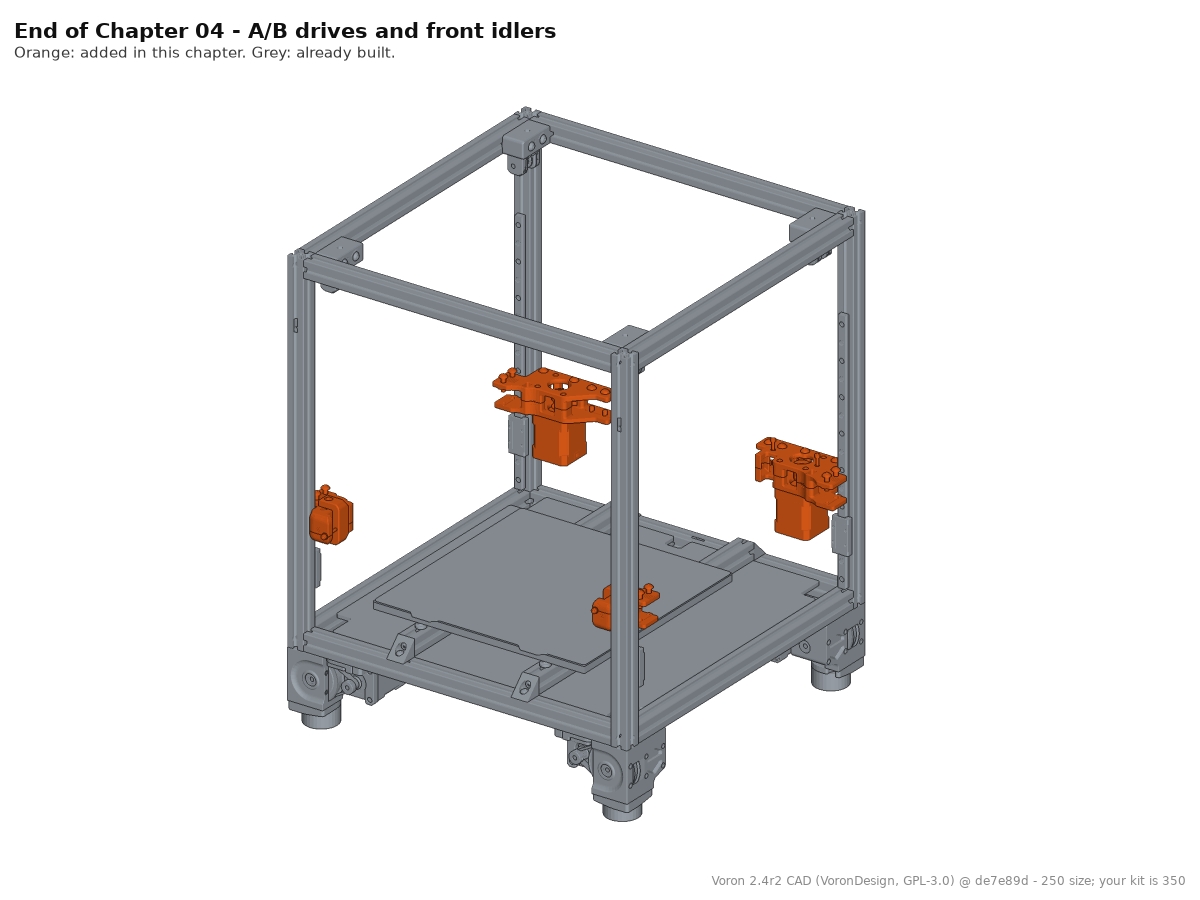
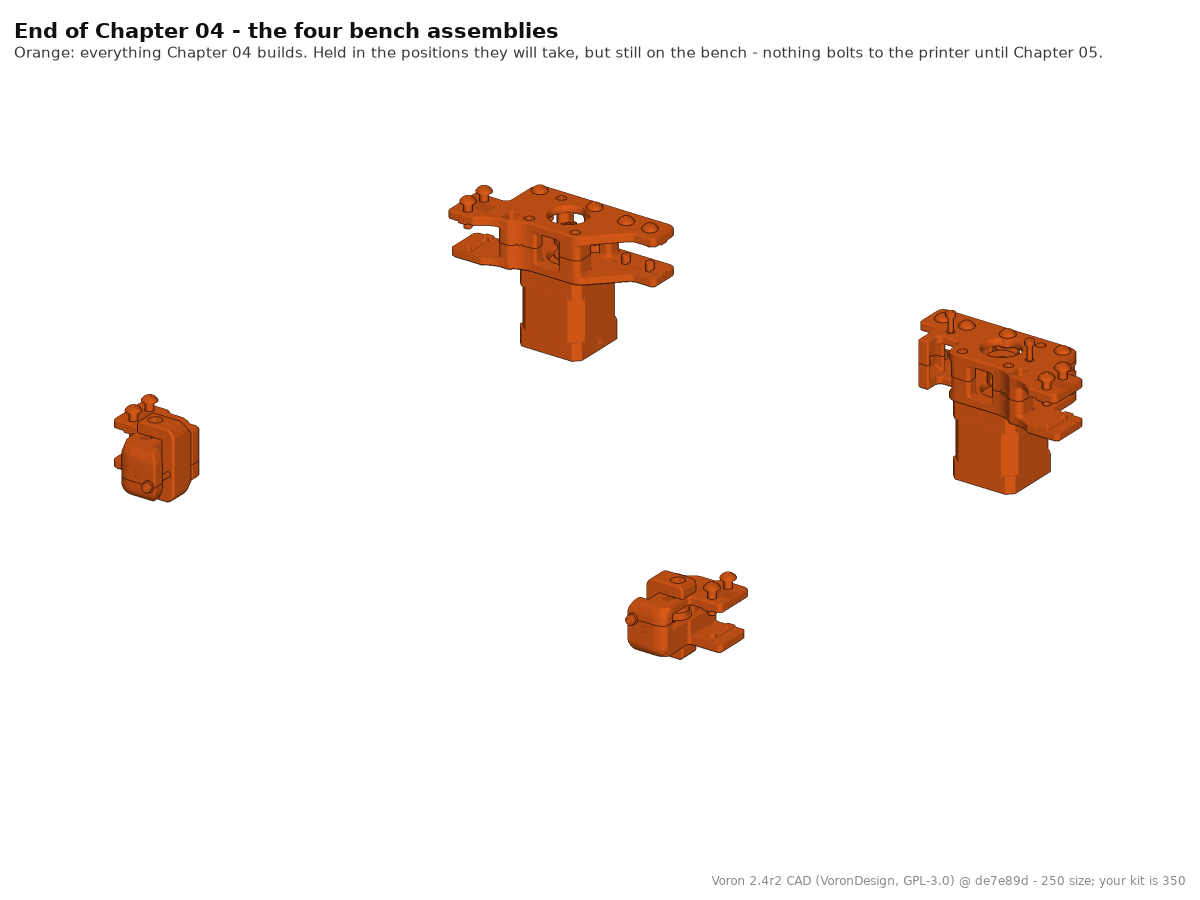
Chapter renders: Ch 04 and Ch 05 end on the bench, and captions reach the page
Both renders claimed an end state their own chapter denies. Ch 04: "All four
assemblies are built on the bench and bagged; none of them touches the printer
until Ch 05" - the render had them bolted to the frame. Checkpoint 05: "Gantry
is upside down ... turned back at Ch 06 Step 06.11" - the render had it hanging
in the machine, and the entry admitted as much in a `note_350` nothing read.

A chapter entry can now name its own context (`context:`, a list of earlier
chapters) and drop the fixed machine frame box (`frame: null`), so those two
render the subassembly alone: Ch 04 the four assemblies, held in the positions
they will take; Ch 05 the whole gantry with Ch 04's drives and idlers grey at
its corners. Ch 06 is where the gantry first appears in the machine, and says
so. Every other chapter is unchanged and re-renders byte-identical.

The figure captions on the overview and Checkpoint pages are now the entry's
own `caption` + `note_350` instead of a fixed sentence, and the before/after
labels carry the render's title ("After - end of Ch 05: the gantry, on the
bench"), so a caveat has one place to live and it is on the page.

Claude-Session: https://claude.ai/code/session_01JPh16hu98bGFdruZ6YkYzc

diff --git a/scripts/build_steps.py b/scripts/build_steps.py
@@ -68,9 +68,16 @@ _PRIMARY_IMG_DIRS = ("assets/manual-pages/", "assets/sb-pages/")
 # Cumulative "state at the end of this chapter" CAD renders, built by
 # scripts/cad_render/render_steps.py --chapters into docs/manual/assets/cad/.
 # Only chapters that have one get the before/after figure; the rest (wiring,
-# software, startup, calibration) simply do not show one.
+# software, startup, calibration) simply do not show one.  The words under each
+# figure are the `caption` and `note_350` of that chapter's entry in
+# assets/cad/steps.yml, so the manifest that decides what the picture shows also
+# says what it means; nothing in it is written twice.
 _CH_NUM_RE = re.compile(r"^(\d+[a-z]?)-")
 CHAPTER_SHOTS: dict[str, tuple[str | None, str]] = {}   # stem -> (before, after)
+CHAPTER_CAPTIONS: dict[str, tuple[str, str]] = {}   # "04" -> (title, caption + caveat)
+CAD_YML = MANUAL / "assets/cad/steps.yml"
+# Fallback when a render exists but steps.yml has no entry for it.
+_CAD_PROVENANCE = "Voron 2.4r2 CAD, which is the 250 machine; yours is the 350."
 
 # Populated by on_pre_build; read by on_page_markdown.
 STEP_URLS: dict[str, str] = {}          # "04.2" -> "manual/steps/04-ab-drives/04-2.md"
@@ -776,16 +783,32 @@ def render_page(chapter: Chapter, page: Page, idx: int,
         # The chapter's own Checkpoint, not Ch 06's second one (06b).
         if page.kind == "checkpoint" and chapter.stem in CHAPTER_SHOTS \
                 and m and page.slug == "checkpoint-%s" % m.group(1):
+            shot = CHAPTER_SHOTS[chapter.stem][1]
             out += ['<figure class="chapter-progress chapter-progress--single" markdown="1">',
-                    "", _shot_img(CHAPTER_SHOTS[chapter.stem][1], src_dir, dest_dir), "",
-                    "<figcaption>What you should have now. Voron 2.4r2 CAD, which is the "
-                    "250 machine; yours is the 350.</figcaption>", "", "</figure>", ""]
+                    "", _shot_img(shot, src_dir, dest_dir), "",
+                    "<figcaption>What you should have now — %s</figcaption>"
+                    % html.escape(_shot_caption(shot)), "", "</figure>", ""]
         out += ['<div class="step-text step-text--wide" markdown="1">', ""]
         out += page.body
         out += ["", "</div>"]
 
     out += [""] + _nav_bar(prev_ref, next_ref) + [""]
     return "\n".join(out).rstrip() + "\n"
+
+
+def _load_chapter_captions() -> None:
+    """`title`, `caption` and `note_350` per chapter from assets/cad/steps.yml."""
+    CHAPTER_CAPTIONS.clear()
+    if not CAD_YML.exists():
+        return
+    import yaml
+    doc = yaml.safe_load(CAD_YML.read_text(encoding="utf-8")) or {}
+    for e in doc.get("chapters") or []:
+        if not e.get("out"):
+            continue
+        text = " ".join(x for x in (e.get("caption"), e.get("note_350")) if x)
+        if text:
+            CHAPTER_CAPTIONS[str(e["chapter"])] = (e.get("title") or "", text)
 
 
 def _chapter_shot(chapter: Chapter) -> str | None:
@@ -802,8 +825,25 @@ def _shot_num(rel: str) -> str:
 
 
 def _shot_img(rel: str, src_dir: Path, dest_dir: Path) -> str:
-    return ("![Voron 2.4r2 CAD — the machine at the end of Chapter %s](%s)"
-            % (_shot_num(rel), _rel(src_dir, dest_dir, rel)))
+    title = CHAPTER_CAPTIONS.get(_shot_num(rel), ("", ""))[0]
+    what = title or "the machine at the end of Chapter %s" % _shot_num(rel)
+    return "![Voron 2.4r2 CAD — %s](%s)" % (what, _rel(src_dir, dest_dir, rel))
+
+
+def _shot_caption(rel: str) -> str:
+    """What the after-image shows, from steps.yml — including its 350 caveat."""
+    return CHAPTER_CAPTIONS.get(_shot_num(rel), ("", _CAD_PROVENANCE))[1]
+
+
+def _shot_label(rel: str, side: str) -> str:
+    """Side label: `After — end of Ch 05: the gantry, on the bench`.
+
+    The tail comes from the render's own title, so a chapter that ends with a
+    subassembly on the bench is not read as a changed machine.
+    """
+    num = _shot_num(rel)
+    tail = CHAPTER_CAPTIONS.get(num, ("", ""))[0].split(" - ", 1)
+    return "%s — end of Ch %s%s" % (side, num, (": " + tail[1]) if len(tail) > 1 else "")
 
 
 def _progress_figure(chapter: Chapter, src_dir: Path, dest_dir: Path) -> list[str]:
@@ -813,20 +853,18 @@ def _progress_figure(chapter: Chapter, src_dir: Path, dest_dir: Path) -> list[st
     before, after = CHAPTER_SHOTS[chapter.stem]
     out = ['<figure class="chapter-progress" markdown="1">', ""]
     if before:
-        for rel, side in ((before, "Before — end of Ch %s" % _shot_num(before)),
-                          (after, "After — end of Ch %s" % _shot_num(after))):
+        for rel, side in ((before, _shot_label(before, "Before")),
+                          (after, _shot_label(after, "After"))):
             out += ['<div class="chapter-progress__shot" markdown="1">', "",
                     _shot_img(rel, src_dir, dest_dir), "",
                     '<span class="chapter-progress__cap">%s</span>' % html.escape(side),
                     "", "</div>", ""]
-        cap = ("What this chapter builds — the machine as you leave Chapter %s (left) and "
-               "as you leave this one (right). New parts are orange."
-               % _shot_num(before))
+        lead = "What this chapter builds — orange is new, grey is what you already built."
     else:
         out += [_shot_img(after, src_dir, dest_dir), ""]
-        cap = "What this chapter builds — everything orange is new."
-    out += ["<figcaption>%s Voron 2.4r2 CAD, which is the 250 machine; yours is the 350."
-            "</figcaption>" % cap, "", "</figure>", ""]
+        lead = "What this chapter builds — everything orange is new."
+    out += ["<figcaption>%s %s</figcaption>" % (lead, html.escape(_shot_caption(after))),
+            "", "</figure>", ""]
     return out
 
 
@@ -917,6 +955,7 @@ def build() -> dict:
         if chapter:
             chapters.append(chapter)
 
+    _load_chapter_captions()
     CHAPTER_SHOTS.clear()
     before: str | None = None
     for chapter in chapters:

diff --git a/scripts/cad_render/render_steps.py b/scripts/cad_render/render_steps.py
@@ -75,6 +75,12 @@ def reset_boxes(scene):
 # colour and every earlier chapter's parts in a neutral one, so the sequence
 # reads as progress.  One fixed camera and one fixed frame box for all of them
 # (chapter_defaults), or the pairs would not line up.
+#
+# Two chapters end with a subassembly on the bench and the machine untouched
+# (Ch 04's drives and idlers, Ch 05's gantry).  Those entries set `context:` to
+# the chapters that are physically part of that subassembly - `[]` for Ch 04 -
+# and `frame: null` to drop the machine frame box and auto-frame the parts, so
+# the image says what the chapter's own Checkpoint says.
 
 CH_ACCENT = (0.87, 0.36, 0.10)              # PALETTE[0], the selection colour
 CH_CONTEXT = (0.62, 0.65, 0.68)             # solid neutral (cf. render.GHOST_RGB)
@@ -85,11 +91,27 @@ CH_TINTS = {"glass": (0.96, 0.80, 0.62)}
 
 
 def chapter_sets(chapters):
-    """[(entry, ids it adds, ids from every earlier chapter)] in file order."""
-    out, prior = [], []
+    """[(entry, ids it adds, ids drawn as already-built)] in file order.
+
+    The already-built set defaults to every earlier chapter - the cumulative
+    machine.  An entry may override it with `context:`, a list of earlier
+    chapter numbers (possibly empty), for a chapter that ends with a
+    subassembly on the bench rather than a changed machine.
+    """
+    out, prior, by_ch = [], [], {}
     for e in chapters:
         ids = [i for s in e.get("select", []) for i in s["ids"]]
-        out.append((e, ids, list(prior)))
+        if "context" in e:
+            ctx = []
+            for c in e["context"] or []:
+                if c not in by_ch:
+                    raise SystemExit(f"chapter {e['chapter']}: context names "
+                                     f"chapter {c!r}, which is not an earlier entry")
+                ctx += by_ch[c]
+        else:
+            ctx = list(prior)
+        out.append((e, ids, ctx))
+        by_ch[e["chapter"]] = ids
         prior += ids
     return out
 
@@ -117,6 +139,8 @@ def render_chapters(scene, doc, out_dir, want, dry_run):
               f"({len(new)} new, {len(prior)} earlier)", flush=True)
         if dry_run:
             continue
+        # `frame: null` on an entry: no machine box, so mode "a" frames the
+        # selection itself - the bench subassembly chapters.
         frame = entry_opt(e, d, "frame")
         R.render(
             scene, sel, png, "a",
@@ -129,7 +153,7 @@ def render_chapters(scene, doc, out_dir, want, dry_run):
             subtitle=entry_opt(e, d, "subtitle"),
             note=entry_opt(e, d, "note"),
             colours=colours,
-            frame=np.array([float(x) for x in frame.split(",")]),
+            frame=(np.array([float(x) for x in frame.split(",")]) if frame else None),
         )
         n += 1
     print(f"\n{n} chapter image(s) in {time.time()-t0:.1f}s", flush=True)

diff --git a/docs/manual/CONVENTIONS.md b/docs/manual/CONVENTIONS.md
@@ -168,6 +168,12 @@ image under "What you should have now". Chapters the CAD cannot show — 10 (wir
 12–14 (software, startup, calibration) — have no PNG and get no figure, and Ch 06's second
 Checkpoint (06b) does not repeat Ch 06's.
 
+The words under both figures are the entry's own `caption` and `note_350`, so a render's
+caveats are on the page rather than buried in the manifest, and each render has to show the
+end state its chapter's Checkpoint describes — Ch 04 and Ch 05 end with a subassembly on the
+bench and the machine untouched, so those two entries carry `frame: null` and `context:` and
+show the assemblies alone.
+
 **Navigation.** `docs/.nav.yml` owns the whole nav — five tabs (Home / Build / Print / Plan /
 Reference), with the sidebar showing only the active tab's pages. Build and Print list chapter and
 batch overviews only; add a row there when a chapter is added (`steps/.nav.yml` carries
